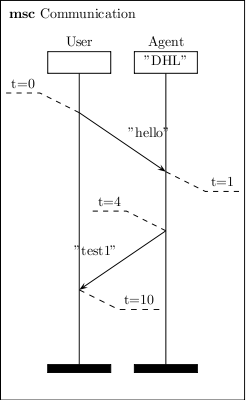
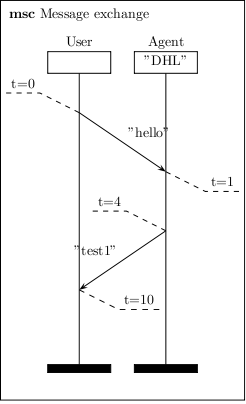
generados nuevos tex para los ejemplos

diff --git a/doc/images/region.tex b/doc/images/region.tex
@@ -6,23 +6,31 @@
 
 \begin{msc}{Communication}
 
-\declinst{a}{User}{}
-\declinst{f}{Agent}{"DHL"}
+\declinst{u}{User1}{''Client''}
+\declinst{f}{User2}{''Server''}
+\declinst{k}{User3}{''Admin''}
 
-\mess{"hello"}{a}{f}[3]
-\mscmark{t=0}{a}
+\regionstart{activation}{u}
 \nextlevel[3]
-\mscmark[br]{t=1}{f}
+\regionend{u}
+\mess{''hello''}{u}{f}
+\nextlevel
+\regionstart{coregion}{f}
+\nextlevel
+\regionstart{suspension}{k}
+\mess{''bye''}{f}{k}
+\nextlevel
+\regionstart{activation}{u}
+\mess{''Test''}{f}{u}
+\nextlevel
+\regionend{f}
 \nextlevel[3]
-
-\mess{"test1"}{f}{a}[3]
-\mscmark{t=4}{f}
-\nextlevel[3]
-\mscmark[br]{t=10}{a}
-\nextlevel[3]
-
-\regionstart{a}
-\regionend{a}
+\regionend{u}
+\mess*{''OK''}{u}{f}
+\nextlevel
+\mess{''Finishing''}{f}{k}
+\regionend{k}
+\nextlevel
 
 \end{msc}
 \end{document}

diff --git a/doc/images/timer.tex b/doc/images/timer.tex
@@ -4,24 +4,16 @@
 
 \setlength{\firstlevelheight}{1cm}
 
-\begin{msc}{Communication}
+\begin{msc}{Timers}
 
-\declinst{a}{User}{}
-\declinst{f}{Agent}{"DHL"}
+\declinst{u}{User1}{''Client''}
+\declinst{f}{User2}{''Server''}
 
-\mess{"hello"}{a}{f}[3]
-\mscmark{t=0}{a}
-\nextlevel[3]
-\mscmark[br]{t=1}{f}
-\nextlevel[3]
-
-\mess{"test1"}{f}{a}[3]
-\mscmark{t=4}{f}
-\nextlevel[3]
-\mscmark[br]{t=10}{a}
-\nextlevel[3]
-
-\timeout{}{time}{Timer}
+\settimer{T,50}{f}
+\nextlevel[2]
+\mess{''hello''}{f}{u}[1]
+\nextlevel[2]
+\timeout{T}{u}
 
 \end{msc}
 \end{document}

diff --git a/doc/images/message exchange.tex b/doc/images/message exchange.tex
@@ -4,7 +4,7 @@
 
 \setlength{\firstlevelheight}{1cm}
 
-\begin{msc}{Communication}
+\begin{msc}{Message exchange}
 
 \declinst{a}{User}{}
 \declinst{f}{Agent}{"DHL"}
